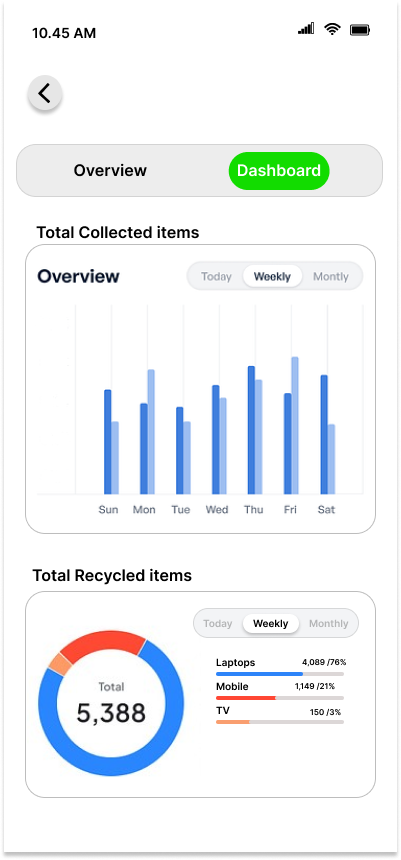
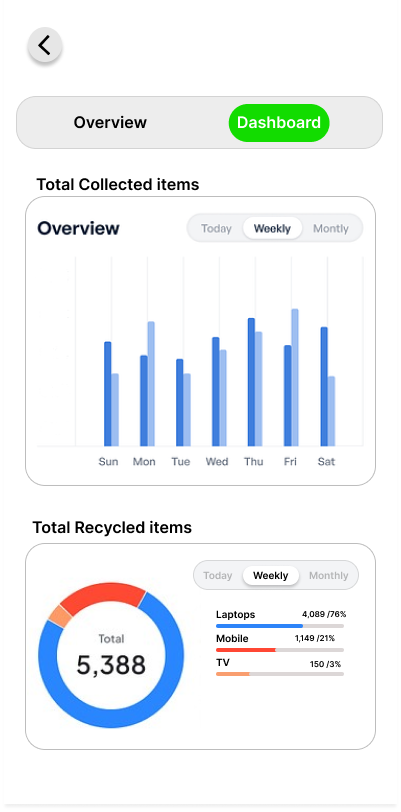
slight changes

diff --git a/lib/collector_screens/statics_page_one.dart b/lib/collector_screens/statics_page_one.dart
@@ -14,14 +14,14 @@ class _StaticsPageOneState extends State<StaticsPageOne> {
     if (tappedOn == 'Two') {
       Navigator.of(context).push(
         MaterialPageRoute(
-          builder: (ctx) => const StaticsPageTwo(),
+          builder: (ctx) => const StaticsPageThree(),
         ),
       );
     }
     if (tappedOn == 'Three') {
       Navigator.of(context).push(
         MaterialPageRoute(
-          builder: (ctx) => const StaticsPageThree(),
+          builder: (ctx) => const StaticsPageTwo(),
         ),
       );
     }
@@ -53,7 +53,7 @@ class _StaticsPageOneState extends State<StaticsPageOne> {
               child: Image.asset('assets/images/statimg01.png'),
             ),
             Padding(
-              padding: const EdgeInsets.only(left: 60, right: 50, top:80),
+              padding: const EdgeInsets.only(left: 40, right: 40, top:80),
               child: Column(
                 children: [
                   Row(
@@ -69,7 +69,7 @@ class _StaticsPageOneState extends State<StaticsPageOne> {
                       const Column(
                         children: [
                           SizedBox(
-                            width: 30,
+                            width: 20,
                           )
                         ],
                       ),
@@ -88,7 +88,7 @@ class _StaticsPageOneState extends State<StaticsPageOne> {
                       Column(
                         children: [
                           InkWell(
-                            onTap: null,
+                            onTap:() => {_onTap('Two', context)},
                             child: Image.asset('assets/images/statimg04.png'),
                           ),
                         ],

diff --git a/lib/collector_screens/col_profile_screen.dart b/lib/collector_screens/col_profile_screen.dart
@@ -1,4 +1,5 @@
 import 'package:eco_wise/collector_screens/statics_page_one.dart';
+import 'package:eco_wise/collector_screens/statics_page_two.dart';
 import 'package:flutter/material.dart';
 
 import 'package:eco_wise/widgets/custom_elevated_button.dart';
@@ -11,7 +12,7 @@ class ColProfileScreen extends StatelessWidget {
     if (tappedOn == 'Total Collected Items') {
       Navigator.of(context).push(
         MaterialPageRoute(
-          builder: (ctx) => TotalCollectedItems(),
+          builder: (ctx) => const StaticsPageTwo(),
         ),
       );
     }

diff --git a/lib/collector_screens/col_schedule_screen.dart b/lib/collector_screens/col_schedule_screen.dart
@@ -153,7 +153,7 @@ class _ColScheduleScreenState extends State<ColScheduleScreen> {
                                   ),
                         ),
                         Text(
-                          'Quantity: ${e.time?.hour}:${e.time?.minute}',
+                          'Time: ${e.time?.hour}:${e.time?.minute}',
                           style:
                               Theme.of(context).textTheme.bodyLarge!.copyWith(
                                     fontWeight: FontWeight.w400,
